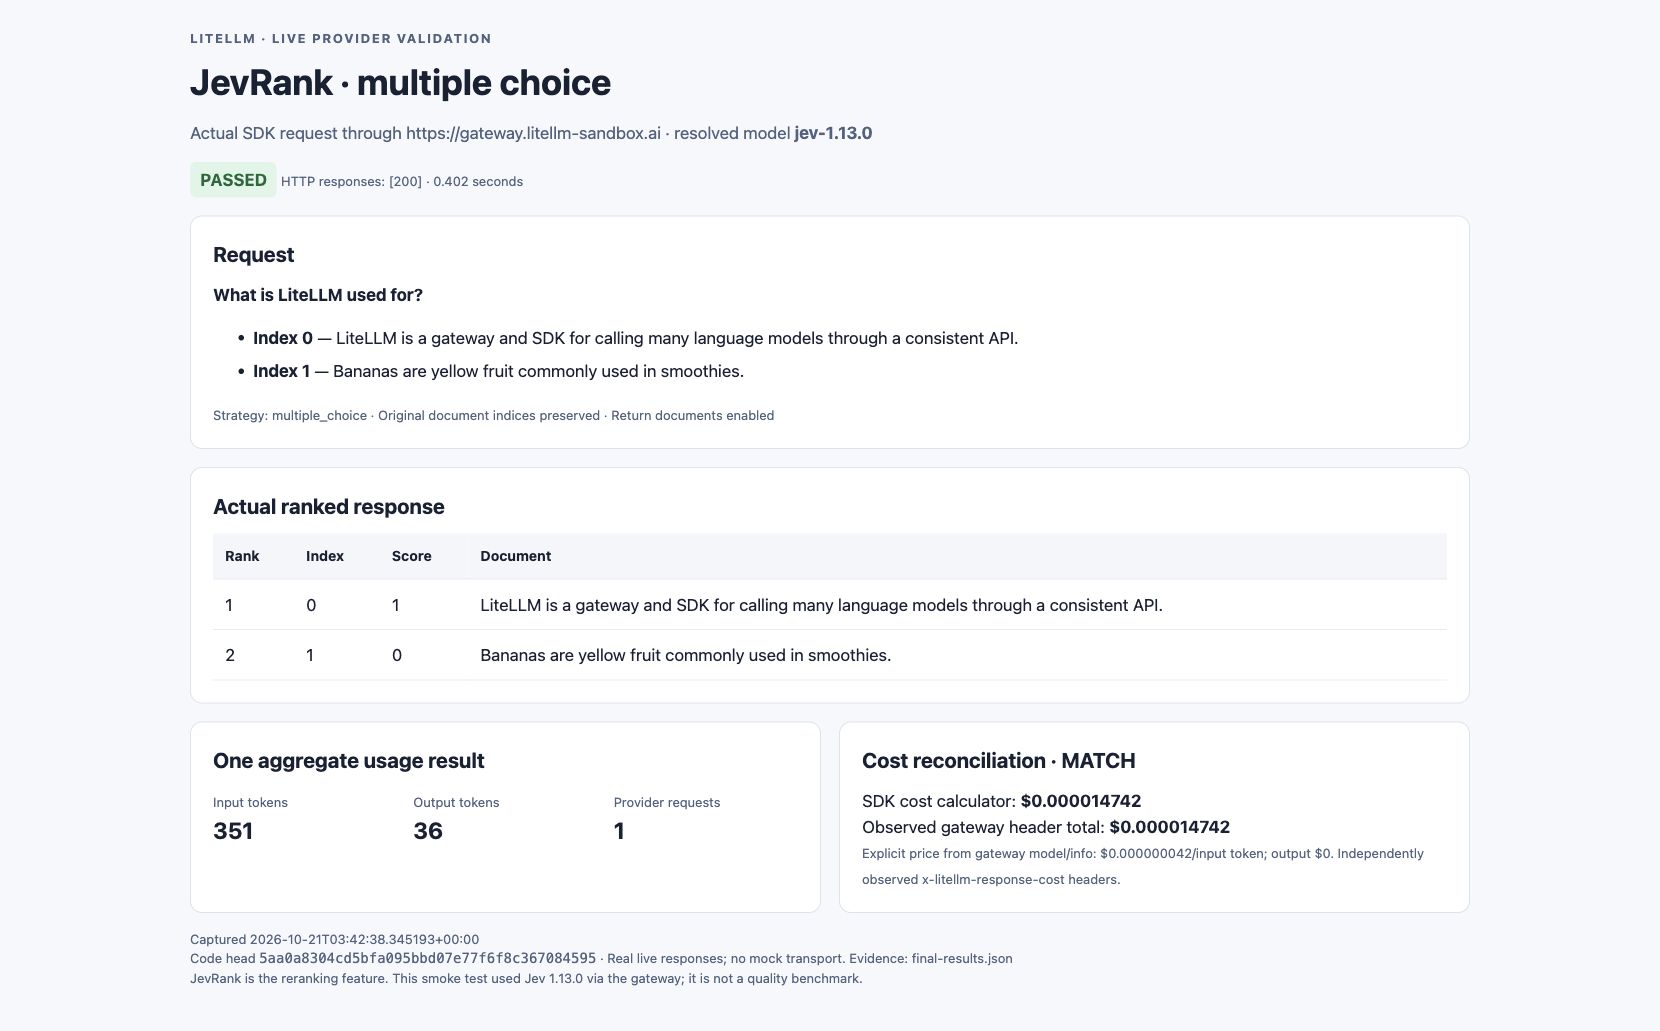
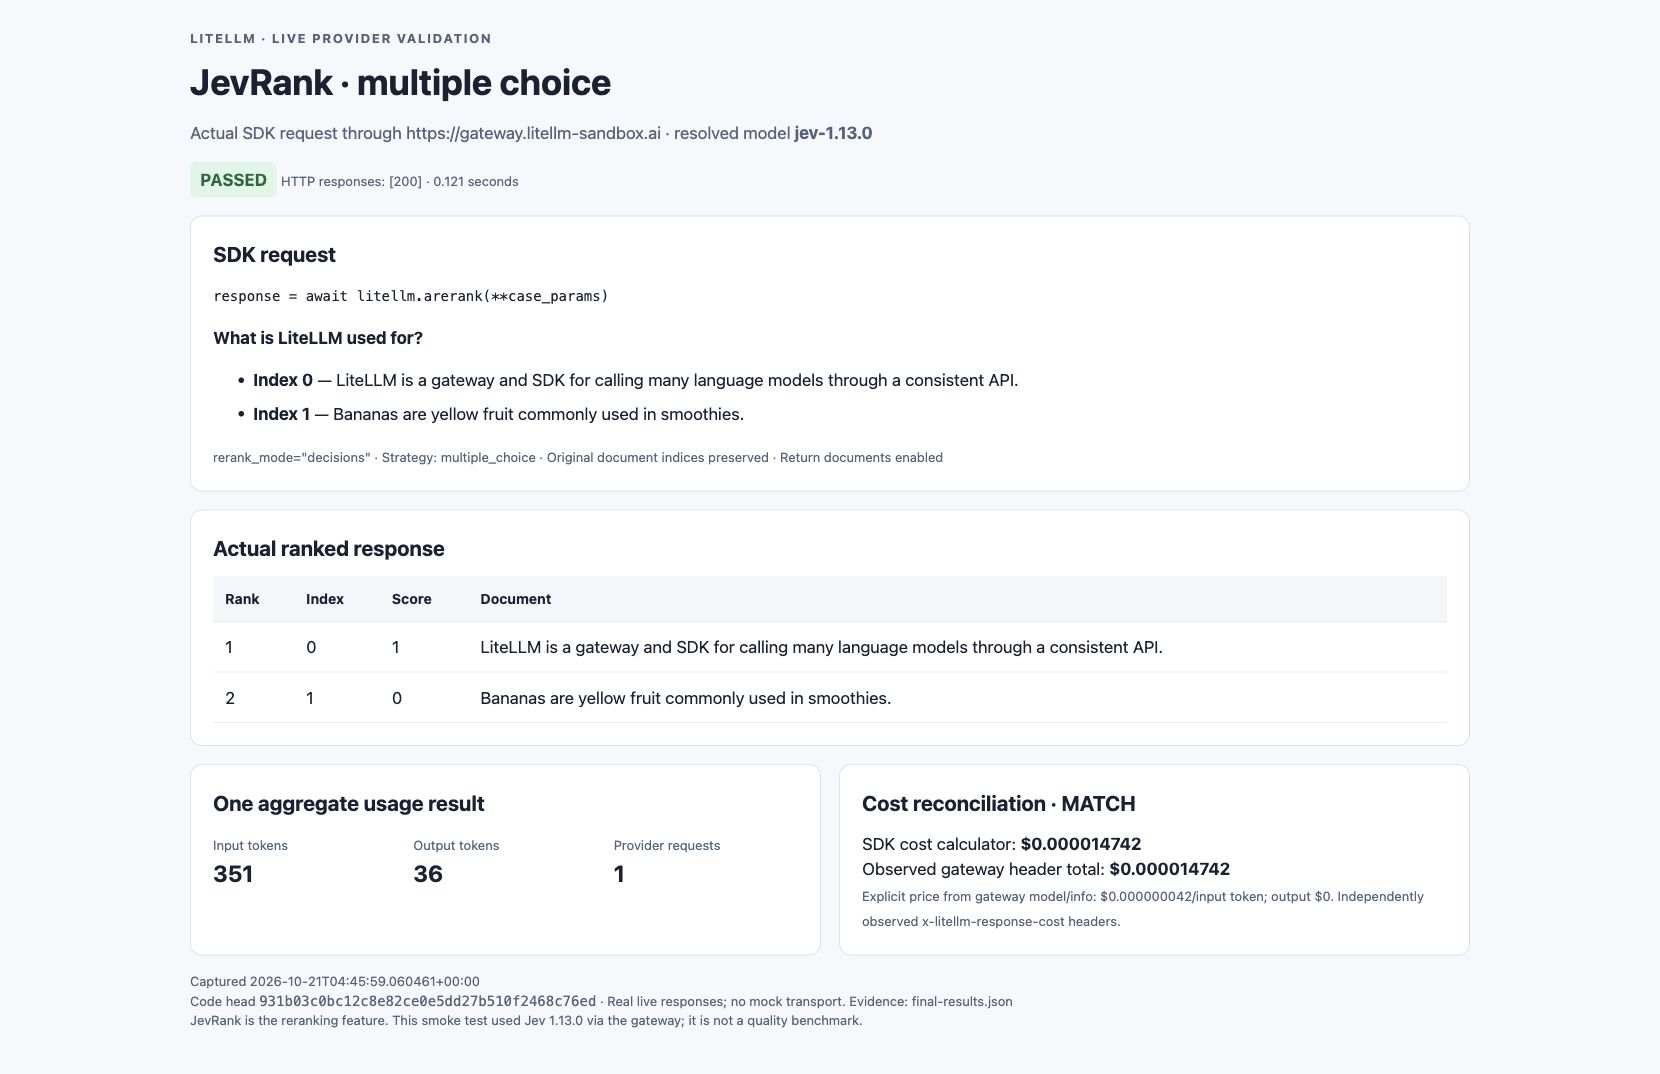
docs: capture final JevRank live API proof

diff --git a/static/benchmarks/jevrank/README.md b/static/benchmarks/jevrank/README.md
@@ -4,7 +4,7 @@ The local LiteLLM SDK completed 300 BEIR SciFact test queries and saved 6,000 do
 
 The estimated cost was $0.172618278 for 300 queries, or $0.57539426 per 1,000 queries. This uses 4,109,959 returned input tokens at $0.042 per million, with no output-token charge. These are configured gateway rates, not an invoice. `independent-audit.json` records a separate recomputation from the raw probabilities and dataset labels.
 
-`measured-run.json` records model identity, source revision, hashes, retrieval settings, runtime and cost provenance. `measured-per-query.csv` contains every query's metrics, usage and latency. `measured-responses.jsonl.gz` contains normalized provider responses and scores, without credentials or local paths. The three JPG files and `final-results.json` show separate live sync, async and multiple-choice smoke tests; those examples are not the 300-query benchmark.
+`measured-run.json` records model identity, source revision, hashes, retrieval settings, runtime and cost provenance. `measured-per-query.csv` contains every query's metrics, usage and latency. `measured-responses.jsonl.gz` contains normalized provider responses and scores, without credentials or local paths. `before-results.json` records the baseline behavior before the adapter. The three JPG files and `final-results.json` show separate live sync, async and multiple-choice smoke tests; those examples use final preview commit `931b03c0bc12c8e82ce0e5dd27b510f2468c76ed` and are not the 300-query benchmark, which remains pinned to `5aa0a8304c`.
 
 ## Reproduce
 
